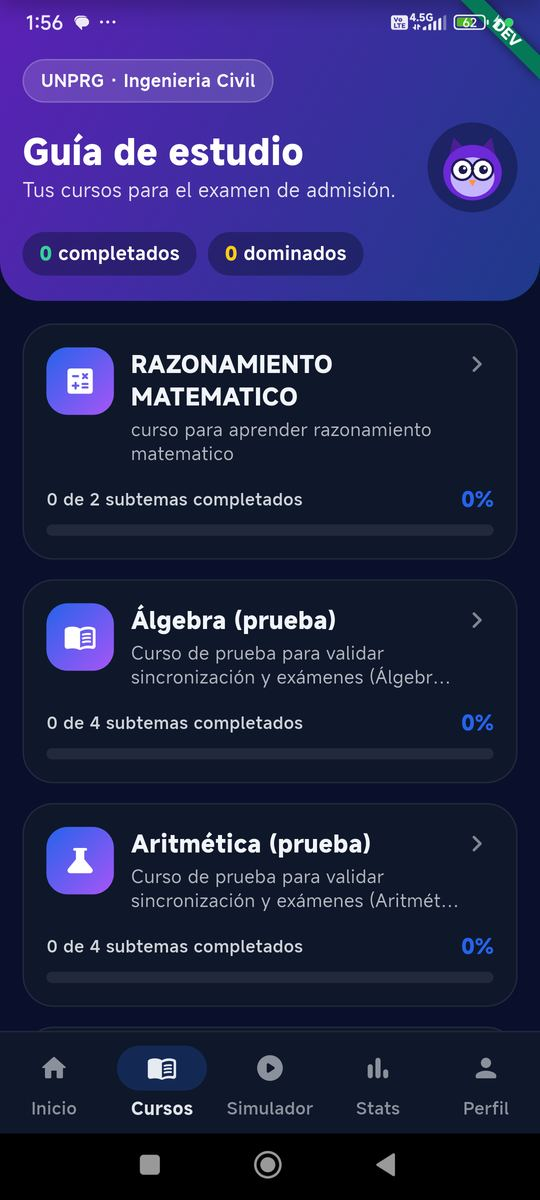
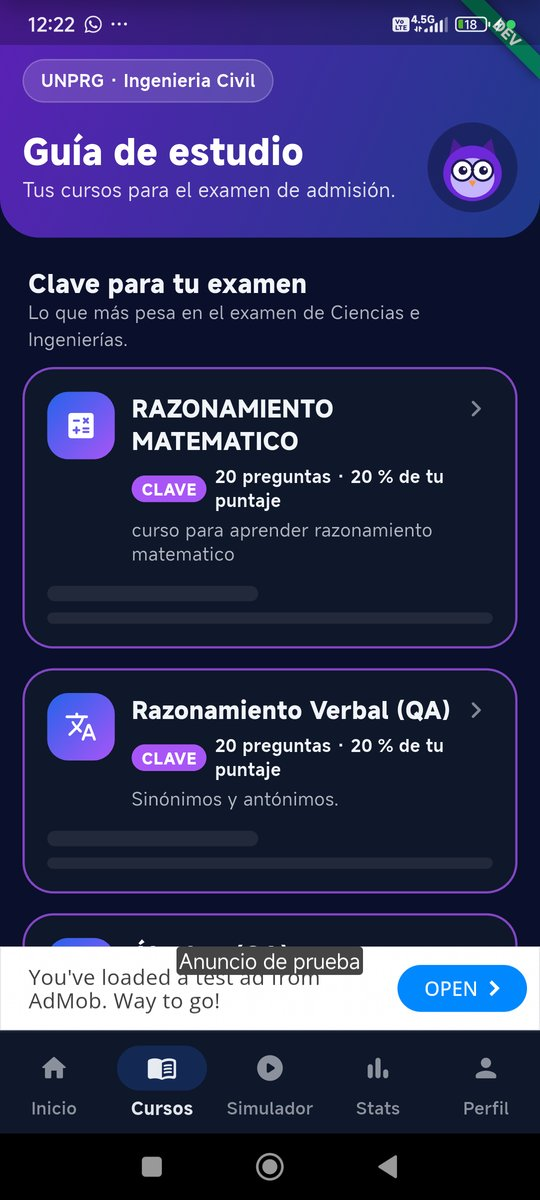
Guía: capturas reales de Cursos agrupados por el examen (v32)

diff --git a/docs/guias/guia_app.html b/docs/guias/guia_app.html
@@ -200,8 +200,8 @@ flowchart LR
 </pre>
 
 <div class="screen two" id="est-cursos">
-  <figure><img src="img/est-cursos.jpg" alt="Guía de estudio sin avance"><figcaption>Sin avance.</figcaption></figure>
-  <figure><img src="img/est-cursos-despues.jpg" alt="Guía de estudio con avance"><figcaption>Con 1 subtema completado y dominado.</figcaption></figure>
+  <figure><img src="img/est-cursos.jpg" alt="Guía de estudio: cursos clave"><figcaption>Ing. Civil (UNPRG, área E): «Clave para tu examen» primero.</figcaption></figure>
+  <figure><img src="img/est-cursos-despues.jpg" alt="Guía de estudio: otros grupos"><figcaption>Más abajo: «También vienen en tu examen» y «No vienen en tu examen».</figcaption></figure>
   <div class="body">
     <h3>Cursos</h3>
     <div class="table-wrap"><table>

diff --git a/PROGRESO.md b/PROGRESO.md
@@ -7,7 +7,7 @@ _Última actualización: 2026-10-23_
 > **Retomar en otra máquina:** `docs/contexto_claude/README.md` tiene el punto exacto donde quedamos (2026-10-19), las reglas de trabajo, los pendientes y una copia de la memoria de Claude.
 
 ## Estado actual
-- **Áreas del examen (2026-10-23, rama `codex/areas-examen`, fase 1):** Kevin decidió registrar el peso de cada curso **por área** (grupo académico) de la universidad. Contrato `docs/exam_areas_contract.md` (copia en la app). Universidad: `examAreas[]` (`id`, `name`, `source`, `rows[]` con `subject`, `courseId`, `questions`, `points`, `key`) y `careerDetails.{id}.examAreaId`. Admin: `ExamArea`/`ExamAreaRow` en `domain/university_profile.dart`, `UniversityRepo.setExamAreas` (quita el área a carreras huérfanas), pestaña «Áreas del examen» de la ficha (`widgets/exam_areas_card.dart`: tabla con peso %, ★ clave, copiar de otra área) y «Área del examen» en el diálogo de cada carrera. Cargado en TEST desde el prospecto UNPRG 2026-II (Anexo 1): grupos A–F con sus preguntas y puntos; Ing. Civil y Sistemas → E; claves sugeridas (Kevin puede cambiarlas). Pruebas `test/exam_areas_test.dart`. Siguiente: plan de hoy y práctica del día priorizados por peso; fecha única del examen.
+- **Áreas del examen (2026-10-23, rama `codex/areas-examen`, fase 1):** Kevin decidió registrar el peso de cada curso **por área** (grupo académico) de la universidad. Contrato `docs/exam_areas_contract.md` (copia en la app). Universidad: `examAreas[]` (`id`, `name`, `source`, `rows[]` con `subject`, `courseId`, `questions`, `points`, `key`) y `careerDetails.{id}.examAreaId`. Admin: `ExamArea`/`ExamAreaRow` en `domain/university_profile.dart`, `UniversityRepo.setExamAreas` (quita el área a carreras huérfanas), pestaña «Áreas del examen» de la ficha (`widgets/exam_areas_card.dart`: tabla con peso %, ★ clave, copiar de otra área) y «Área del examen» en el diálogo de cada carrera. Cargado en TEST desde el prospecto UNPRG 2026-II (Anexo 1): grupos A–F con sus preguntas y puntos; Ing. Civil y Sistemas → E; claves sugeridas (Kevin puede cambiarlas). Pruebas `test/exam_areas_test.dart`. Probado en el teléfono (Ing. Civil → grupo E: los tres grupos se ven bien); Guía v32 con las capturas reales. Siguiente: plan de hoy y práctica del día priorizados por peso; fecha única del examen.
 - **Animación al subir de rango (2026-10-22, rama `codex/rango-animado`):** nuevo `{config}/xp.rankAnimation` (true de fábrica) en `XpSettings` y ajuste «Animación al subir de rango» en Niveles e insignias. Corregido: el editor completo de XP y rangos reescribía el documento sin `explanationVideoDailyCap` (volvía a 25 al guardar); ahora conserva ese campo y `rankAnimation` (prueba «the card keeps the fields it does not show»). Contrato `docs/xp_contract.md`. App: ver `../iya-app/PROGRESO.md`.
 - **Estadísticas de la app: `{config}/stats` (2026-10-20, rama `codex/stats-renovado`):** nuevo documento con los umbrales de la pestaña Estadísticas renovada de la app (búho, historias, cursos que más acercan, proyección y calendario). Admin: `domain/stats_settings.dart`, `AppConfigRepo.watchStatsSettings/saveStatsSettings`, `SettingsDoc.stats` y tema «Estadísticas» en `settings_catalog.dart` (9 ajustes con descripción; prueba de límites ajustada para la regla débil < fuerte). Functions: `stats` en `APP_CONFIG_SECTIONS` (`app_config.ts`), viaja en `{config}/app`. Contrato `docs/stats_contract.md` (copia en la app) y `app_config_contract.md` actualizado. La pantalla de la app está descrita en `../iya-app/PROGRESO.md`.
 - **Salud del contenido en el servidor (2026-10-19, rama `codex/salud-contenido`, desplegado en TEST):** el Inicio del admin leía cursos, temas, subtemas, plantillas y las 1 432 preguntas publicadas en cada entrada (≈1 570 lecturas). Ahora: (1) el índice por curso `iya-question-index-{env}` guarda las partes de cada pregunta (`q[id].p`; índice de TEST reconstruido con `tools/build_question_index.js`); (2) `functions/src/content_health.ts` junta los datos en `iya-admin-reports-{env}/contentHealth` con la callable `refreshContentHealth` (`courses:v`, 160 lecturas en TEST), y los disparadores `indexQuestions` y `auditCourses/Topics/Subtopics/Templates` solo marcan `dirtyAtMs`; (3) el admin (`ContentHealthRepo.load`, `reportFromFacts`) lee ese documento (1 lectura) y recalcula solo si falta, está marcado, «Revisar ahora» o tras guardar desde el admin (`refreshContentHealth(ref)`); abrir un curso cuenta preguntas con el índice de ese curso (1 lectura en vez de ≈1 430). Reglas: el admin con `courses:v` lee el índice y los reportes. Comprobado en TEST con los datos reales: mismos problemas y elementos en las 158 partes que el cálculo anterior. Pruebas: Functions 102 + emuladores 33, admin 172.
